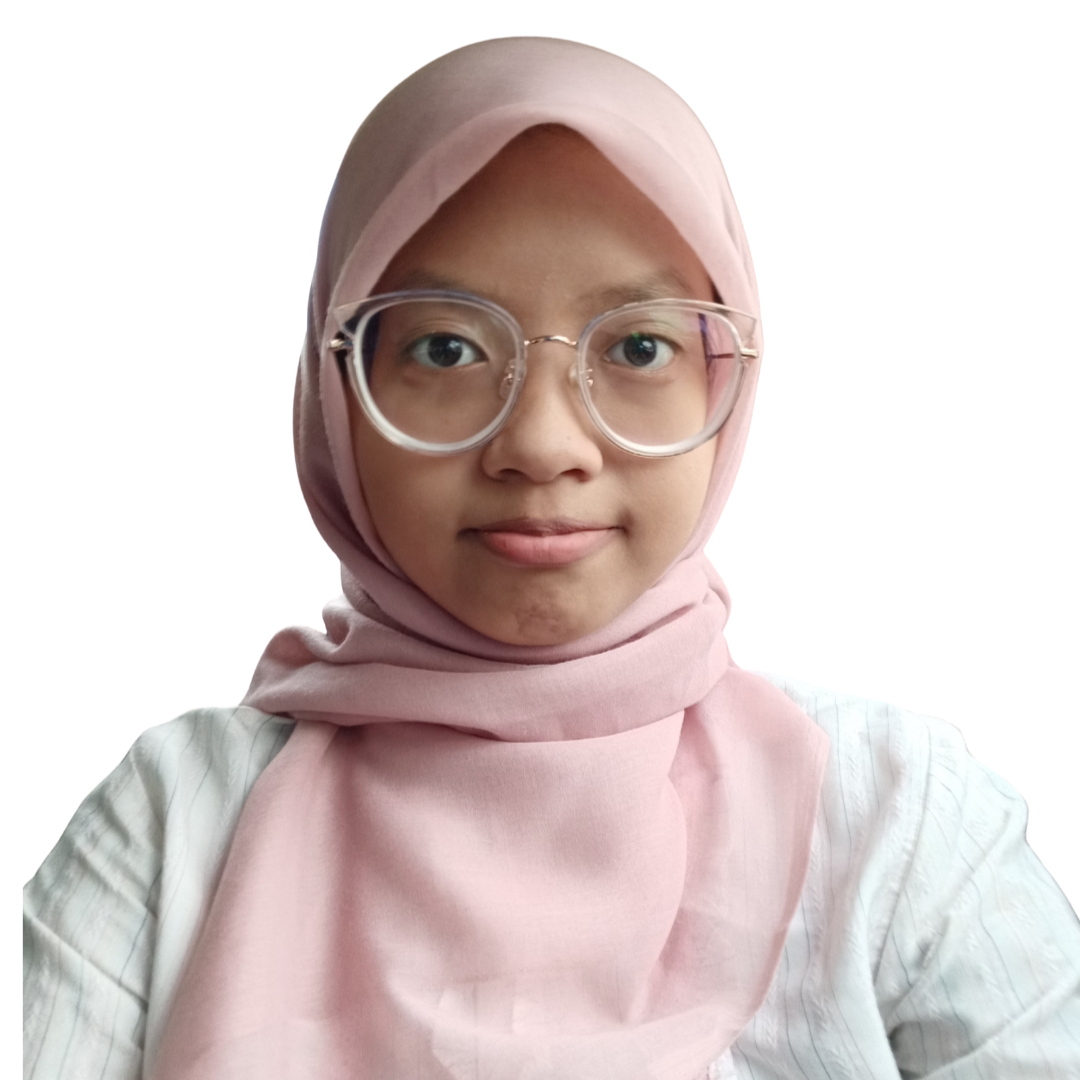
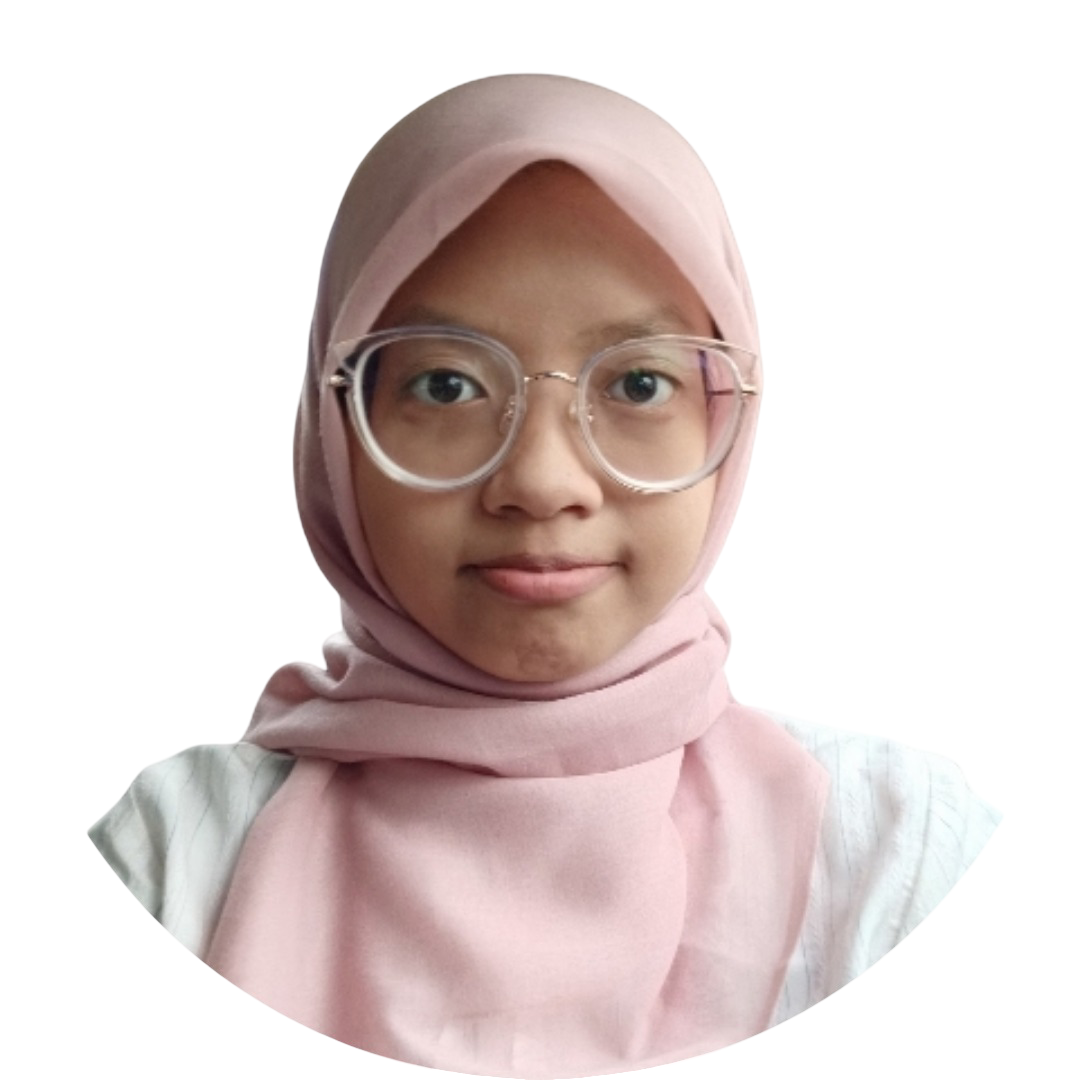
feat(hero): implement full hero section with bio, photo, and social links

Changed region(s): [[0.0, 0.0306, 0.7639, 1.0], [0.5194, 0.6722, 1.0, 1.0]]

diff --git a/static/css/style.css b/static/css/style.css
@@ -7,6 +7,10 @@
   --color-border: #f3f4f6;
   --color-text-dark: #111111;
   --color-text-muted: #4a5565;
+  --color-text-light-muted: #99a1af;
+  --color-black-60: rgba(0,0,0,0.6);
+  --color-white-70: rgba(255,255,255,0.7);
+  --color-white-40: rgba(255,255,255,0.4);
 
   --font-family-base: 'Poppins', sans-serif;
   --fs-hero: clamp(2.75rem, 7vw, 5.5rem);
@@ -17,31 +21,49 @@
   --space-m: 24px;
   --space-l: 32px;
   --space-xl: 48px;
+  --space-xxl: 64px;
+  --space-xxxl: 80px;
+  
+  --radius-s: 16px;
+  --radius-m: 24px;
   --radius-l: 32px;
+  --radius-xl: 48px;
   --radius-pill: 999px;
+  
+  --shadow-card: 0 1px 3px 0 rgba(0,0,0,0.1), 0 1px 2px -1px rgba(0,0,0,0.1);
+  --shadow-nav: 0 8px 30px 0 rgba(0,0,0,0.06);
+  --shadow-frame: 0 9px 4px 0 rgba(0,0,0,0.25);
+  --shadow-photo: 0 25px 60px 0 rgba(0,0,0,0.18);
+   
   --max-width: 1280px;
 }
 
 
 *, *::before, *::after {
-  box-sizing: border-box;
+    box-sizing: border-box;
 }
 
 html {
-  scroll-behavior: smooth;
+    scroll-behavior: smooth;
 }
 
 body {
-  margin: 0;
-  font-family: var(--font-family-base);
-  background: var(--color-bg);
-  color: var(--color-white);
-  overflow-x: hidden;
+    margin: 0;
+    font-family: var(--font-family-base);
+    background: var(--color-bg);
+    color: var(--color-white);
+    overflow-x: hidden;
 }
 
 ul { margin: 0; padding: 0; }
 img { max-width: 100%; display: block; }
 a { color: inherit; text-decoration: none; }
+
+.container{
+    max-width: var(--max-width);
+    margin: 0 auto;
+    padding: 0 var(--space-l);
+}
 
 .glow{
     position: absolute;
@@ -49,9 +71,10 @@ a { color: inherit; text-decoration: none; }
     filter: blur(90px);
     pointer-events: none;
     z-index: 0;
-  }
-  .glow--pink{ background: radial-gradient(circle, rgba(255,175,185,0.85) 0%, rgba(255,175,185,0.4) 45%, rgba(255,175,185,0) 72%); }
-  .glow--purple{ background: radial-gradient(circle, rgba(140,110,255,0.55) 0%, rgba(140,110,255,0) 70%); }
+}
+
+.glow--pink{ background: radial-gradient(circle, rgba(255,175,185,0.85) 0%, rgba(255,175,185,0.4) 45%, rgba(255,175,185,0) 72%); }
+.glow--purple{ background: radial-gradient(circle, rgba(140,110,255,0.55) 0%, rgba(140,110,255,0) 70%); }
 
 .navbar{
     position: fixed;
@@ -69,14 +92,14 @@ a { color: inherit; text-decoration: none; }
     box-shadow: var(--shadow-nav);
     backdrop-filter: blur(12px);
     -webkit-backdrop-filter: blur(12px);
-  }
-  .navbar__list{
+}
+.navbar__list{
     display:flex;
     align-items:center;
     gap: var(--space-xxs);
     list-style:none;
-  }
-  .navbar__link{
+}
+.navbar__link{
     display:block;
     padding: 10px 20px;
     border-radius: var(--radius-pill);
@@ -86,17 +109,17 @@ a { color: inherit; text-decoration: none; }
     color: var(--color-black-60);
     transition: background 0.2s ease, color 0.2s ease;
     white-space: nowrap;
-  }
-  .navbar__link:hover,
-  .navbar__link:focus-visible,
-  .navbar__link:active{
+}
+.navbar__link:hover,
+.navbar__link:focus-visible,
+.navbar__link:active{
     background: var(--color-accent);
     color: var(--color-white);
-  }
-  .navbar__checkbox{
+}
+.navbar__checkbox{
     display:none;
-  }
-  .navbar__toggle{
+}
+.navbar__toggle{
     display:none;
     background:none;
     border:none;
@@ -104,17 +127,178 @@ a { color: inherit; text-decoration: none; }
     padding: var(--space-xs) var(--space-s);
     flex-direction:column;
     gap:5px;
-  }
-  .navbar__toggle span{
+}
+.navbar__toggle span{
     display:block;
     width:24px;
     height:2px;
     background: var(--color-black-60);
     border-radius: 2px;
     transition: transform 0.25s ease, opacity 0.25s ease;
-  }
-  .navbar__checkbox:checked ~ .navbar__toggle span:nth-child(1){ transform: translateY(7px) rotate(45deg); }
-  .navbar__checkbox:checked ~ .navbar__toggle span:nth-child(2){ opacity:0; }
-  .navbar__checkbox:checked ~ .navbar__toggle span:nth-child(3){ transform: translateY(-7px) rotate(-45deg); }
+}
+.navbar__checkbox:checked ~ .navbar__toggle span:nth-child(1){ transform: translateY(7px) rotate(45deg); }
+.navbar__checkbox:checked ~ .navbar__toggle span:nth-child(2){ opacity:0; }
+.navbar__checkbox:checked ~ .navbar__toggle span:nth-child(3){ transform: translateY(-7px) rotate(-45deg); }
+  
+.hero{
+    position: relative;
+    min-height: 100vh;
+    display:flex;
+    flex-direction:column;
+    align-items:center;
+    justify-content:flex-start;
+    text-align:center;
+    padding: 120px var(--space-l) 140px;
+    overflow:visible;
+}
+
+.hero__glow-top{width: 900px;
+    height: 900px;
+    top: -420px;
+    left: 50%;
+    transform: translateX(-50%);
+    background: radial-gradient(circle, rgba(255,175,185,0.6) 0%, rgba(140,110,255,0.35) 45%, rgba(140,110,255,0) 72%);
+}
+
+.hero__title{
+    position:relative;
+    z-index:1;
+    font-weight:700;
+    font-size: var(--fs-hero);
+    line-height:1.1;
+    letter-spacing:-2.64px;
+    margin: 0 0 var(--space-s);
+}
+  
+.hero__title-accent{ color: var(--color-accent); }
+
+.hero__subtitle{
+    position:relative;
+    z-index:1;
+    display:inline-block;
+    background: var(--color-white);
+    color: var(--color-text-dark);
+    font-weight:700;
+    font-size: var(--fs-hero);
+    line-height:1.1;
+    letter-spacing:-2.64px;
+    padding: 0 var(--space-s) 6px;
+    margin: 0 0 var(--space-l);
+}
+
+.hero__row{
+    position:relative;
+    z-index:1;
+    display:flex;
+    justify-content:space-between;
+    align-items:center;
+    gap: var(--space-l);
+    width:100%;
+    max-width: 1400px;
+    margin-bottom: var(--space-l);
+}
+.hero__blurb{
+    max-width: 386px;
+    font-weight:500;
+    font-size: var(--fs-body-lg);
+    line-height:1.2;
+    text-align:left;
+    margin-top: var(--space-l);
+}
+.hero__blurb--right{ text-align:right; }
+
+.hero__photo-col{
+    position:relative;
+    z-index:1;
+    display:flex;
+    flex-direction:column;
+    align-items:center;
+    flex-shrink:0;
+}
+.hero__photo-glow{
+    width: 500px;
+    height: 500px;
+    top: 50%;
+    left: 50%;
+    transform: translate(-50%,-50%);
+    z-index:0;
+    filter: blur(85px);
+    background: radial-gradient(circle,
+      rgba(255,175,185,0.9) 0%,
+      rgba(255,175,185,0.55) 30%,
+      rgba(255,175,185,0.25) 50%,
+      rgba(255,175,185,0.08) 68%,
+      rgba(255,175,185,0) 82%);
+}
+.hero__photo-wrap{
+    position:relative;
+    z-index:1;
+    width: 320px;
+    height: 320px;
+    max-width: 60vw;
+    aspect-ratio: 1 / 1;
+    border-radius: 50%;
+    overflow:hidden;
+    box-shadow: var(--shadow-photo);
+}
+.hero__photo-wrap img{ width:100%; height:100%; object-fit:cover; display:block; }
+
+.hero__socials{
+    position:relative;
+    z-index:2;
+    display:flex;
+    gap: var(--space-xs);
+    background: #d9d9d9;
+    padding: var(--space-xs);
+    border-radius: var(--radius-pill);
+    flex-wrap:wrap;
+    justify-content:center;
+    margin-top: -32px;
+}
+.hero__social-link{
+    font-weight:700;
+    font-size: 1.25rem;
+    color: var(--color-text-dark);
+    text-decoration: underline;
+    text-underline-offset: 3px;
+    padding: var(--space-s) var(--space-l);
+    border-radius: var(--radius-pill);
+    transition: background 0.2s ease, color 0.2s ease;
+}
+.hero__social-link:hover,
+.hero__social-link:focus-visible,
+.hero__social-link:active{
+    background: var(--color-bg);
+    color: var(--color-white);
+}
+
+.hero__social-link:nth-child(2) {
+    background: var(--color-bg);
+    color: white;
+}
+
+.hero__socials:has(.hero__social-link:nth-child(1):hover)
+.hero__social-link:nth-child(2),
+.hero__socials:has(.hero__social-link:nth-child(3):hover)
+.hero__social-link:nth-child(2) {
+    background: transparent;
+    color: black;
+}
+
+.hero__social-link:nth-child(1):hover,
+.hero__social-link:nth-child(3):hover {
+    background: var(--color-bg);
+    color: white;
+}
+
+.section-heading{
+    font-weight:700;
+    font-size: var(--fs-section-heading);
+    letter-spacing:-1.5px;
+    color: var(--color-white);
+    margin: 0 0 var(--space-l);
+}
+
+
 
 

diff --git a/templates/index.html b/templates/index.html
@@ -8,7 +8,7 @@
     <link rel="preconnect" href="https://fonts.googleapis.com">
     <link rel="preconnect" href="https://fonts.gstatic.com" crossorigin>
     <link href="https://fonts.googleapis.com/css2?family=Poppins:wght@400;500;600;700&display=swap" rel="stylesheet">
-    <link rel="stylesheet" href="style.css">
+    <link rel="stylesheet" href="static/css/style.css">
 </head>
 <body>
 
@@ -29,7 +29,31 @@
   </header>
 
   <main>
-    <section id="home" class="hero"></section>
+    <section id="home" class="hero">
+        <div class="glow glow--pink hero__glow-top" aria-hidden="true"></div>
+
+        <h1 class="hero__title">Hello, I'm <span class="hero__title-accent">Arsya</span></h1>
+        <h2 class="hero__subtitle">Data Enthusiast</h2>
+
+        <div class="hero__row">
+            <p class="hero__blurb">Second-year Information Systems student at Universitas Indonesia. (NPM 2506544076)</p>
+
+            <div class="hero__photo-col">
+                <div class="glow glow--pink hero__photo-glow" aria-hidden="true"></div>
+                <div class="hero__photo-wrap">
+                    <img src="static/img/arsya.png" alt="Portrait photo of Arsya Khairunissa Budiman">
+                </div>
+            <div class="hero__socials" id="hero-socials">
+                <a class="hero__social-link" href="https://linkedin.com/in/arsyakhairunissa" target="_blank" rel="noopener">Linkedin</a>
+                <a class="hero__social-link" href="https://drive.google.com/file/d/1vfsnqUu1p1TyLhXgUkKI-UWVKMYLfalL/view?usp=sharing" target="_blank" rel="noopener">CV</a>
+                <a class="hero__social-link" href="https://github.com/syakhrnss" target="_blank" rel="noopener">Github</a>
+            </div>
+        </div>
+
+        <p class="hero__blurb hero__blurb--right">Exploring Data Analysis, Business Intelligence, Data Science, AI, and Machine Learning</p>
+        </div>
+    </section>
+
     <section id="about" class="about"></section>
     <section id="experience" class="exp-edu"></section>
     <section id="projects" class="projects"></section>
